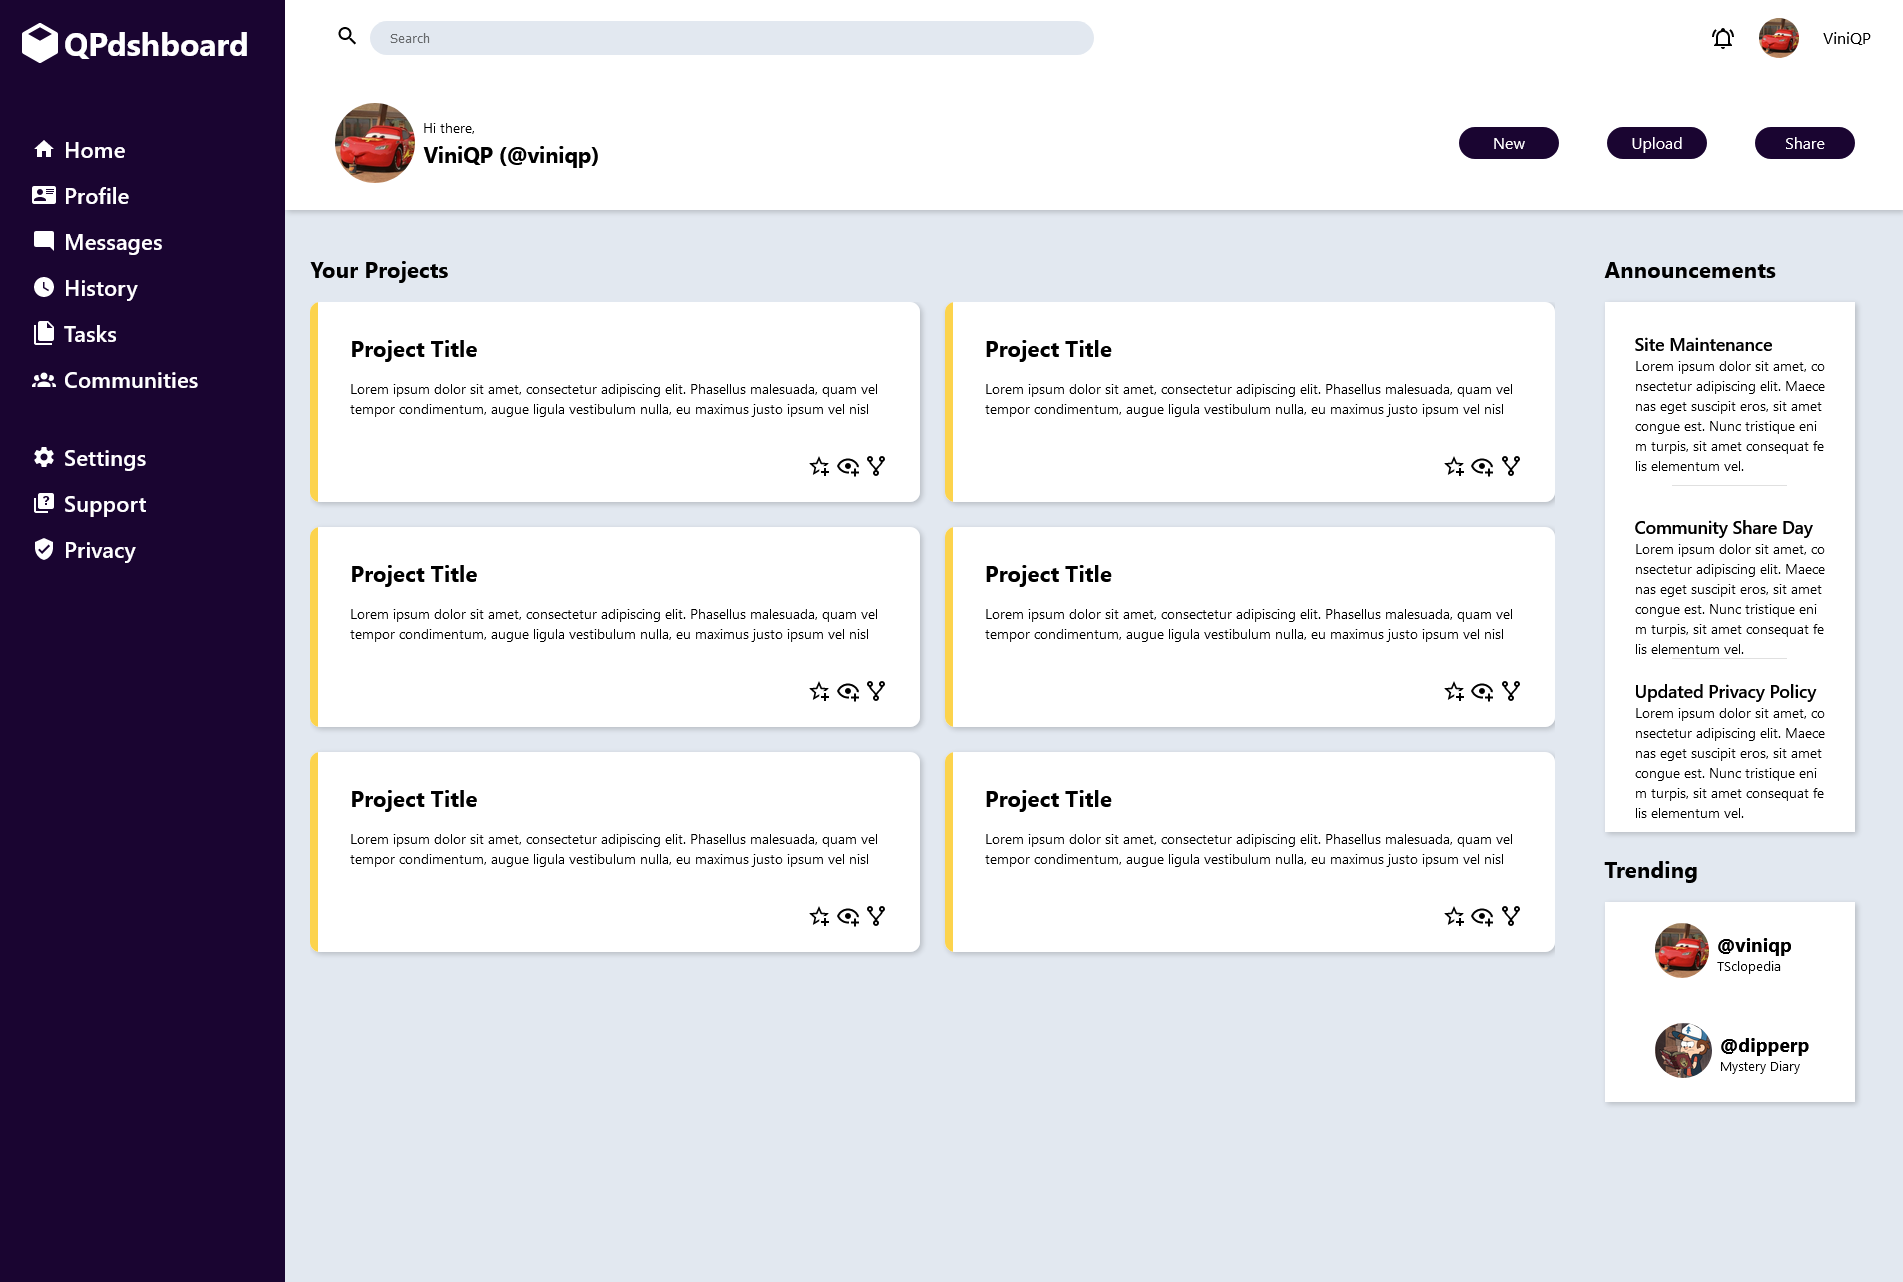
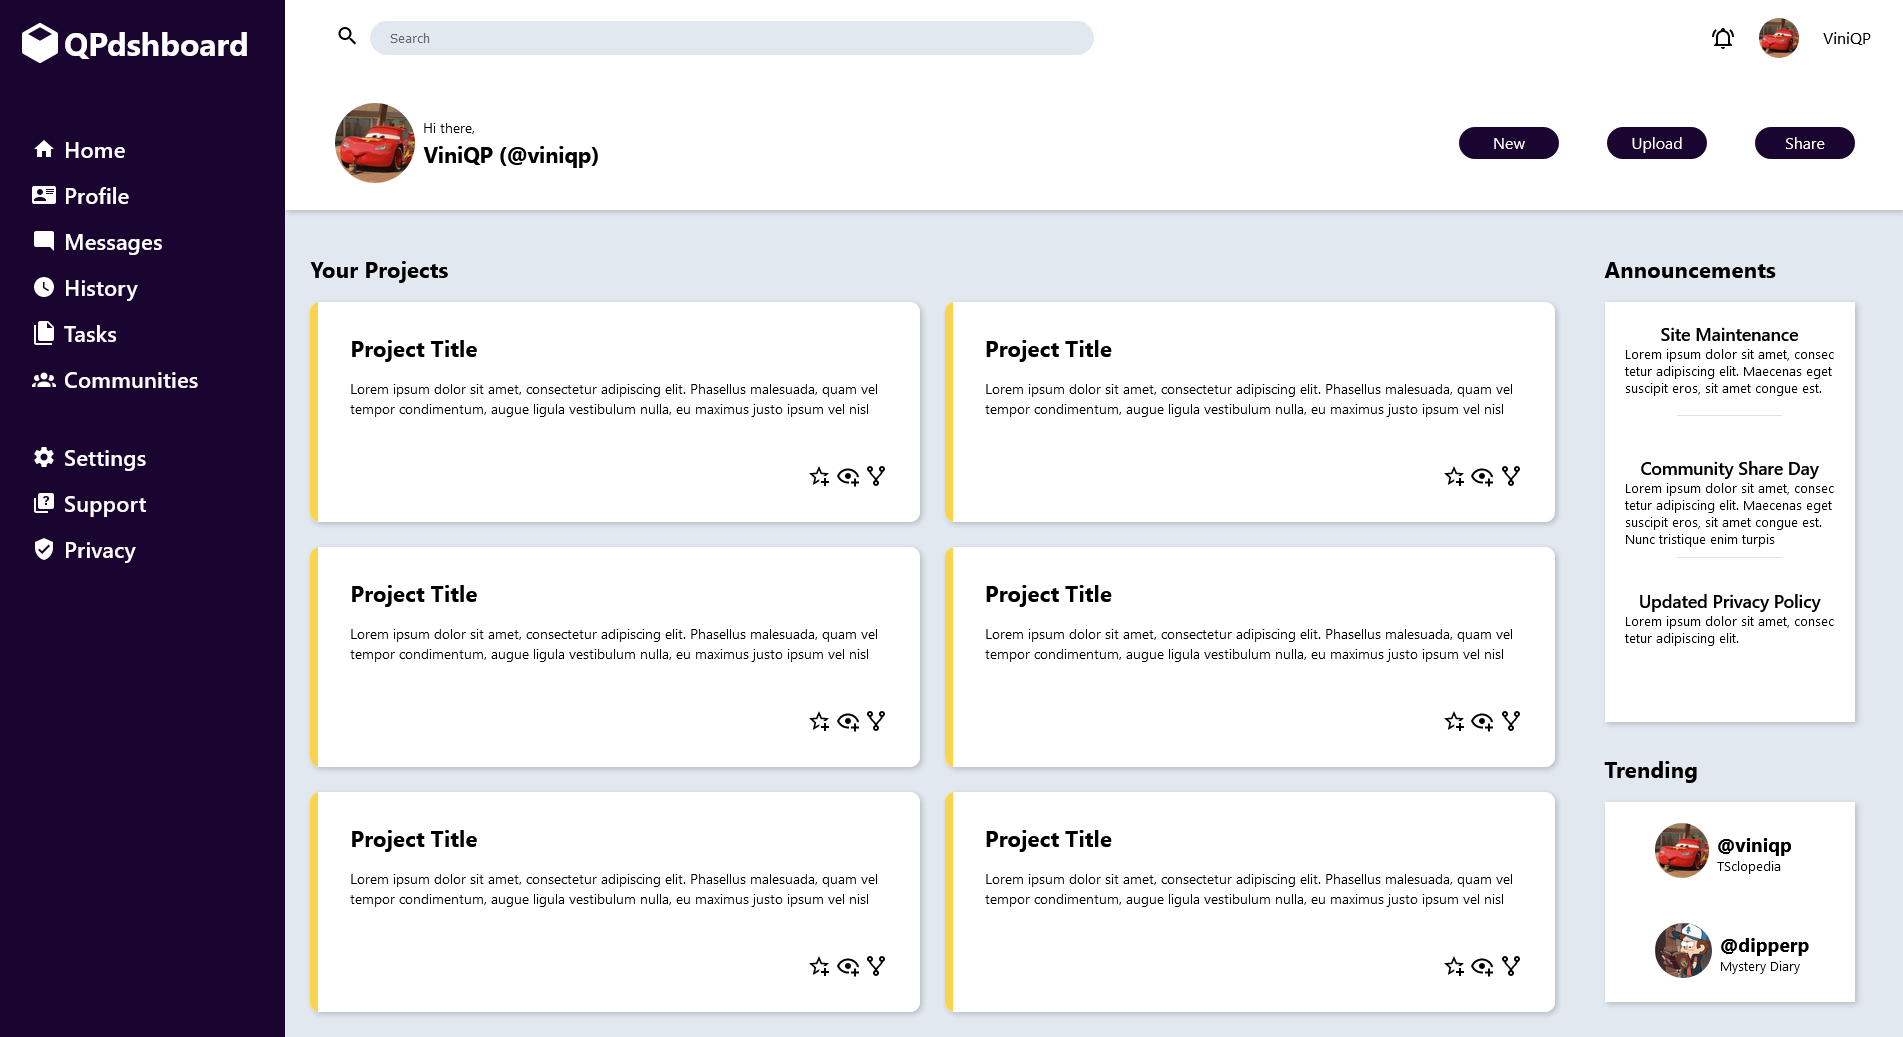
Fix layout bugs in the content section

diff --git a/index.html b/index.html
@@ -263,17 +263,19 @@
                     <div class="announcements">
                         <div class="announcement">
                             <p class="announcement-title">Site Maintenance</p>
-                            <p class="announcement-text">Lorem ipsum dolor sit amet, consectetur adipiscing elit. Maecenas eget suscipit eros, sit amet congue est. Nunc tristique enim turpis, sit amet consequat felis elementum vel.</p>
+                            <p class="announcement-text">Lorem ipsum dolor sit amet, consectetur adipiscing elit. Maecenas eget suscipit eros, sit amet congue est.</p>
+                            <div class="announcement-border"></div>
                         </div>
-                        <div class="announcement-border"></div>
+
                         <div class="announcement">
                             <p class="announcement-title">Community Share Day</p>
-                            <p class="announcement-text">Lorem ipsum dolor sit amet, consectetur adipiscing elit. Maecenas eget suscipit eros, sit amet congue est. Nunc tristique enim turpis, sit amet consequat felis elementum vel.</p>
+                            <p class="announcement-text">Lorem ipsum dolor sit amet, consectetur adipiscing elit. Maecenas eget suscipit eros, sit amet congue est. Nunc tristique enim turpis</p>
+                            <div class="announcement-border"></div>
                         </div>
-                        <div class="announcement-border"></div>
+
                         <div class="announcement">
                             <p class="announcement-title">Updated Privacy Policy</p>
-                            <p class="announcement-text">Lorem ipsum dolor sit amet, consectetur adipiscing elit. Maecenas eget suscipit eros, sit amet congue est. Nunc tristique enim turpis, sit amet consequat felis elementum vel.</p>
+                            <p class="announcement-text">Lorem ipsum dolor sit amet, consectetur adipiscing elit.</p>
                         </div>
                     </div>
                 </div>

diff --git a/style.css b/style.css
@@ -227,7 +227,7 @@ body {
     background-color: #e2e8f0;
 
     width: auto;
-    min-height: auto;
+    min-height: 50vh;
     padding: 25px;
 
     display: grid;
@@ -245,12 +245,10 @@ body {
 
 .project-cards {
     display: grid;
-    height: 100vh;
     grid-template-columns: repeat(2, 1fr);
-    grid-template-rows: repeat(3, clamp(200px, 200px, 350px));
+    grid-template-rows: repeat(3, 220px);
     gap: 25px;
 
-    overflow: auto;
 }
 
 .project-card {
@@ -300,10 +298,9 @@ body {
 
 .right-popups {
     display: grid;
-    grid-template-rows: 600px 300px;
+    grid-template-rows: 500px auto;
 
     width: max(250px, 10vw);
-    min-height: 100vh;
 }
 
 .announcements-area {
@@ -314,7 +311,7 @@ body {
 
 .announcements {
     background-color: white;
-    height: 85%;
+    height: 80%;
 
     /* display: flex;
     flex-direction: column;
@@ -332,11 +329,10 @@ body {
 .announcement {
     display: flex;
     flex-direction: column;
+    align-items: center;
 
-    margin: 20px;
-    margin-bottom: 0px;
-    overflow-wrap: break-word;
-    word-break: break-all;
+    margin: 10px;
+
 }
 
 .announcement-title {
@@ -348,7 +344,7 @@ body {
 }
 
 .announcement-text {
-    font-size: 0.9rem;
+    font-size: 0.8rem;
     margin: 0px;
     padding: 0px;
 
@@ -361,7 +357,8 @@ body {
 
 .announcement-border {
     align-self: center;
-    justify-self: center;
+    justify-self: end;
+    margin: auto;
     width: 50%;
     height: 1px;
     background-color: #E0E0E0;
